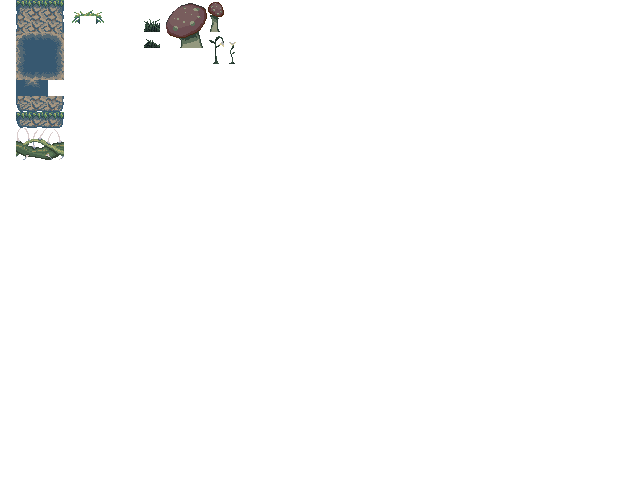
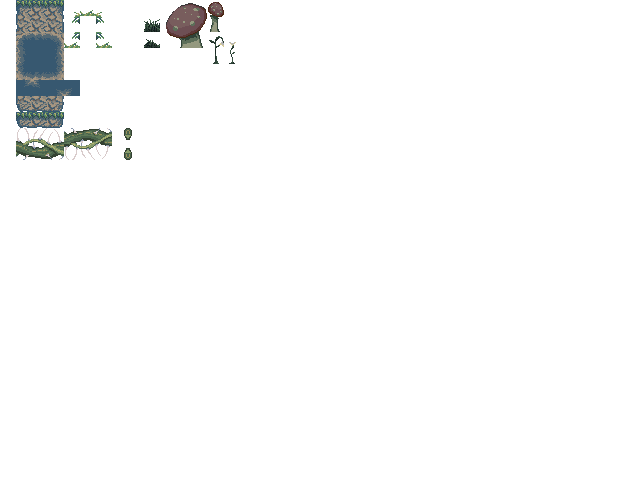
Updated tileset, various bug fixes and level tweaks.

diff --git a/src/com/cambrianman/monsters/levels/tiles.tsx b/src/com/cambrianman/monsters/levels/tiles.tsx
@@ -139,6 +139,24 @@
    <property name="solid" value="true"/>
   </properties>
  </tile>
+ <tile id="324">
+  <properties>
+   <property name="damage" value="true"/>
+   <property name="solid" value="true"/>
+  </properties>
+ </tile>
+ <tile id="325">
+  <properties>
+   <property name="damage" value="true"/>
+   <property name="solid" value="true"/>
+  </properties>
+ </tile>
+ <tile id="326">
+  <properties>
+   <property name="damage" value="true"/>
+   <property name="solid" value="true"/>
+  </properties>
+ </tile>
  <tile id="361">
   <properties>
    <property name="damage" value="true"/>
@@ -152,6 +170,24 @@
   </properties>
  </tile>
  <tile id="363">
+  <properties>
+   <property name="damage" value="true"/>
+   <property name="solid" value="true"/>
+  </properties>
+ </tile>
+ <tile id="364">
+  <properties>
+   <property name="damage" value="true"/>
+   <property name="solid" value="true"/>
+  </properties>
+ </tile>
+ <tile id="365">
+  <properties>
+   <property name="damage" value="true"/>
+   <property name="solid" value="true"/>
+  </properties>
+ </tile>
+ <tile id="366">
   <properties>
    <property name="damage" value="true"/>
    <property name="solid" value="true"/>
